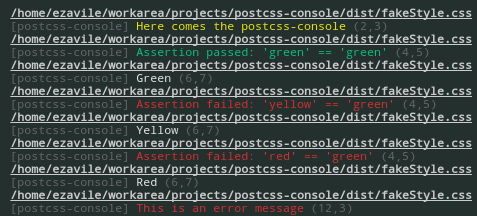
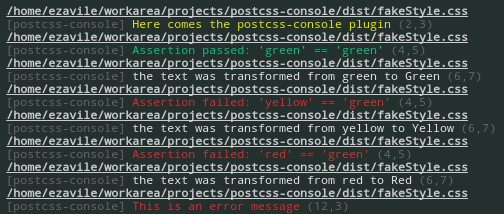
change the output messages

diff --git a/src/fakeStyle.css b/src/fakeStyle.css
@@ -1,9 +1,9 @@
 .u {
-  @console.warn Here comes the postcss-console;
+  @console.warn Here comes the postcss-console plugin;
   @each $color in green, yellow, red {
     @console.assert '$color' == 'green';
     @text-transform $color, upperFirst, $colorTransformed {
-      @console.log $colorTransformed;
+      @console.log the text was transformed from $color to $colorTransformed;
       &-bg$(colorTransformed) {
         background-color: $color;
       }

diff --git a/README.md b/README.md
@@ -17,11 +17,11 @@ What is this? For example, you have the following CSS file (I'm using [postcss-e
 **backgrounds.css**
 ```css
 .u {
-  @console.warn Here comes the postcss-console;
+  @console.warn Here comes the postcss-console plugin;
   @each $color in green, yellow, red {
     @console.assert '$color' == 'green';
     @text-transform $color, upperFirst, $colorTransformed {
-      @console.log $colorTransformed;
+      @console.log the text was transformed from $color to $colorTransformed;
       &-bg$(colorTransformed) {
         background-color: $color;
       }
@@ -39,8 +39,11 @@ And the plugin will give you:
 ## Usage
 
 ### JavaScript
+Put this plugin after all plugins
+
 ```javascript
 postcss([
+   require('other-plugin'),
    require('postcss-console')
 ]);
 ```
